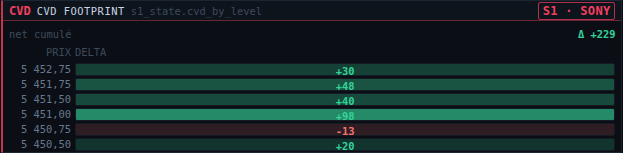
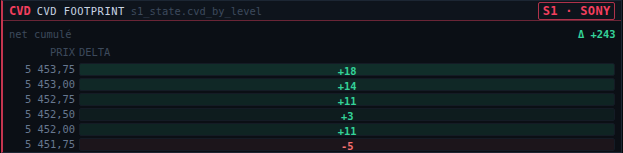
polish(Loop 5) : hiérarchie visuelle du CVD Footprint — marqueur POC + gradient perceptuel
Loop 5 sur s1_state.cvd_by_level (affichage pur, aucun changement de comportement) :
- POC (Point of Control) = niveau au VOLUME absolu max (buy + sell), DISTINCT de l'imbalance
  |delta| de la heatmap. Marqué discrètement : glyphe ▸ + prix en gras souligné (forme +
  position, jamais la couleur seule §3) ; libellé « POC (volume max) » en info-bulle + pied
- GRADIENT PERCEPTUEL : alpha = plancher + (|delta|/maxAbs)^1.6 × plafond (gamma 1.6). Le
  gamma > 1 comprime le bas → les deltas MARGINAUX restent discrets, seuls les GROS deltas
  s'extraient visuellement ; plafond 0.58 → jamais de saturation. Remplace le linéaire

Garde-fous : bandeaux figé/saturé/PAS DE DONNÉES intacts ; garde /devil (isFinite, maxAbs=0)
préservée ; troncature/resize inchangés. Vérifié : tsc · vite build ; E2E nominal + /devil +
forcé re-passés (resize scopé, maxAbs=0, capped, stale, zéro clé dupliquée) — capture réelle
docs/cvd-footprint.png (cas contrôlé : POC delta faible marqué ▸, gros deltas +56/−38 illuminés).

Claude-Session: https://claude.ai/code/session_01AWEeod2JKSioPMjeLEK9wN

diff --git a/frontend/src/panels/zoneB/FootprintPanel.tsx b/frontend/src/panels/zoneB/FootprintPanel.tsx
@@ -1,7 +1,9 @@
 /** CVD — CVD Footprint lisant UN champ : `s1_state.cvd_by_level` (D-029). Delta agresseur
  *  net PAR NIVEAU de prix, heatmap THERMIQUE vert (acheteur) / rouge (vendeur) : intensité
  *  ∝ |delta| relatif — MAIS jamais la couleur seule, le delta SIGNÉ est incrusté (§3, lisible
- *  sans percevoir la couleur). Échelle par prix décroissant (le plus haut en tête, façon DOM).
+ *  sans percevoir la couleur). Gradient perceptuel (gamma > 1) : les gros deltas s'extraient,
+ *  les marginaux restent discrets, sans saturer (Loop 5). POC (volume absolu max) marqué ▸
+ *  + prix souligné (forme + position, §3). Échelle par prix décroissant (façon DOM).
  *  Reset événementiel (news) affiché ; `capped` (suivi saturé) et `stale` (gelé) signalés
  *  honnêtement ; pas de niveau → PAS DE DONNÉES (§3). Temps réel via sélecteur zustand isolé
  *  (ne re-rend que ce panneau). Flux OBSERVÉ, jamais un ordre (§2.1). */
@@ -13,20 +15,30 @@ import type { CvdLevel } from '@/types/schema'
 
 const GREEN = '52, 211, 153'   // risk-green — acheteur net
 const RED = '248, 113, 113'    // risk-red — vendeur net
+// Gradient PERCEPTUEL (Loop 5) : gamma > 1 comprime le bas → les deltas marginaux restent
+// discrets, seuls les GROS deltas montent en intensité (s'extraient) ; plafond < 1 pour ne
+// jamais saturer la vision. Plancher léger pour que même un petit delta reste visible.
+const HEAT_GAMMA = 1.6
+const HEAT_FLOOR = 0.06
+const HEAT_CEIL = 0.58
 
-function Row({ le, maxAbs }: { le: CvdLevel; maxAbs: number }) {
+function Row({ le, maxAbs, poc }: { le: CvdLevel; maxAbs: number; poc: boolean }) {
   const buy = le.delta >= 0
   // Durci /devil : garde maxAbs=0 (division par zéro) ET delta non fini (inf/nan) →
   // intensité 0, jamais un alpha NaN dans le style (rendu cassé). `maxAbs > 0` couvre aussi
   // maxAbs=NaN (NaN>0 est faux). fmtSigned rend « — » sur NaN (§3 : jamais une valeur inventée).
-  const intensity = Number.isFinite(le.delta) && maxAbs > 0
+  const linear = Number.isFinite(le.delta) && maxAbs > 0
     ? Math.min(1, Math.abs(le.delta) / maxAbs) : 0
+  const alpha = (HEAT_FLOOR + linear ** HEAT_GAMMA * HEAT_CEIL).toFixed(2)
   return (
-    <div className="grid h-[15px] grid-cols-[62px_1fr] items-center gap-x-1 font-mono text-xxs tabular-nums">
-      <span className="text-right text-term-dim">{fmtNum(le.price, 2)}</span>
+    <div className="grid h-[15px] grid-cols-[9px_53px_1fr] items-center gap-x-1 font-mono text-xxs tabular-nums">
+      {/* POC = niveau au volume absolu le plus élevé : marqueur DISCRET (forme + position, §3). */}
+      <span className="text-center text-term-text" aria-hidden>{poc ? '▸' : ''}</span>
+      <span className={cn('text-right', poc ? 'font-bold text-term-text underline decoration-term-dim'
+        : 'text-term-dim')}>{fmtNum(le.price, 2)}</span>
       <div className="relative h-[13px] overflow-hidden rounded-sm border border-term-grid"
-        style={{ backgroundColor: `rgba(${buy ? GREEN : RED}, ${(0.08 + intensity * 0.55).toFixed(2)})` }}
-        title={`${fmtNum(le.price, 2)} : delta ${fmtSigned(le.delta, 0)} `
+        style={{ backgroundColor: `rgba(${buy ? GREEN : RED}, ${alpha})` }}
+        title={`${fmtNum(le.price, 2)}${poc ? ' · POC (volume max)' : ''} : delta ${fmtSigned(le.delta, 0)} `
           + `(buy ${fmtInt(le.buy)} / sell ${fmtInt(le.sell)})`}>
         {/* Delta SIGNÉ incrusté : le signe porte le sens, lisible sans percevoir la couleur (§3). */}
         <span className={cn('absolute inset-0 grid place-items-center font-bold',
@@ -46,6 +58,11 @@ export function FootprintPanel() {
   // maxAbs ignore les deltas non finis → reste fini même si le backend en envoyait un (défense).
   const maxAbs = rows.reduce((m, le) =>
     Number.isFinite(le.delta) ? Math.max(m, Math.abs(le.delta)) : m, 0)
+  // POC (Point of Control) = niveau au VOLUME absolu le plus élevé (buy + sell), distinct de
+  // l'imbalance |delta| de la heatmap. Prix du 1er niveau au volume max (déterministe).
+  const pocPrice = rows.length
+    ? rows.reduce((best, le) => (le.buy + le.sell) > (best.buy + best.sell) ? le : best).price
+    : null
   const sinceAge = cvd?.since_ts != null ? Math.max(0, now - cvd.since_ts) : null
 
   return (
@@ -78,14 +95,14 @@ export function FootprintPanel() {
               suivi saturé — niveaux les plus actifs
             </p>
           )}
-          <div className="grid grid-cols-[62px_1fr] gap-x-1 pb-0.5 font-mono text-xxs uppercase text-term-faint">
-            <span className="text-right">prix</span><span>delta</span>
+          <div className="grid grid-cols-[9px_53px_1fr] gap-x-1 pb-0.5 font-mono text-xxs uppercase text-term-faint">
+            <span></span><span className="text-right">prix</span><span>delta</span>
           </div>
           <div className="min-h-0 flex-1 overflow-y-auto">
-            {rows.map((le) => <Row key={le.price} le={le} maxAbs={maxAbs} />)}
+            {rows.map((le) => <Row key={le.price} le={le} maxAbs={maxAbs} poc={le.price === pocPrice} />)}
           </div>
           <p className="mt-1 border-t border-term-border pt-1 text-xxs text-term-faint">
-            delta agresseur/niveau — vert acheteur ▲ / rouge vendeur ▼ ; flux observé, jamais un ordre (§2.1)
+            delta agresseur/niveau — vert acheteur / rouge vendeur ; ▸ POC (volume max) ; flux observé, jamais un ordre (§2.1)
           </p>
         </div>
       )}

diff --git a/DECISIONS.md b/DECISIONS.md
@@ -522,6 +522,17 @@ vérifié : absente du bundle) : le test gèle le SSE (backend tué → store fi
 signé (pas de NaN) ; capped=true → bandeau « suivi saturé » ; stale=true → « figé ». Ces deux
 branches ne sont plus « vérifiées par raisonnement » mais par rendu contrôlé.
 
+**Polish /polish (Loop 5)** — hiérarchie visuelle (aucun changement de comportement) :
+- **POC (Point of Control)** = niveau au VOLUME absolu max (`buy + sell`), DISTINCT de
+  l'imbalance `|delta|` de la heatmap. Marqué discrètement : glyphe ▸ + prix en gras souligné
+  (forme + position, §3) — jamais par la couleur. Prouvé : un POC à delta faible (+2) porte le
+  marqueur tout en restant thermiquement discret, pendant qu'un gros delta (+56) s'illumine.
+- **Gradient perceptuel** : alpha = `plancher + (|delta|/maxAbs)^1.6 × plafond` (gamma 1.6).
+  Le gamma > 1 comprime le bas → les deltas marginaux restent discrets, seuls les GROS deltas
+  montent (s'extraient) ; plafond 0.58 → jamais de saturation. Remplace le linéaire précédent.
+- Vérifié : tsc · vite build ; E2E nominal + /devil re-passés (resize scopé, maxAbs=0, capped,
+  stale) — capture docs/cvd-footprint.png (cas contrôlé POC-vs-gros-delta).
+
 **Durcissement /devil (Loop 4)** — 4 attaques, 2 failles réelles corrigées (tests, 11 verts) :
 1. **RÉGRESSION de seq** (redémarrage source, seq repart bas) : le garde `seq <= last_seq`
    ignorait alors TOUT print futur → GEL SILENCIEUX (tape FRESH mais accumulation morte, le
